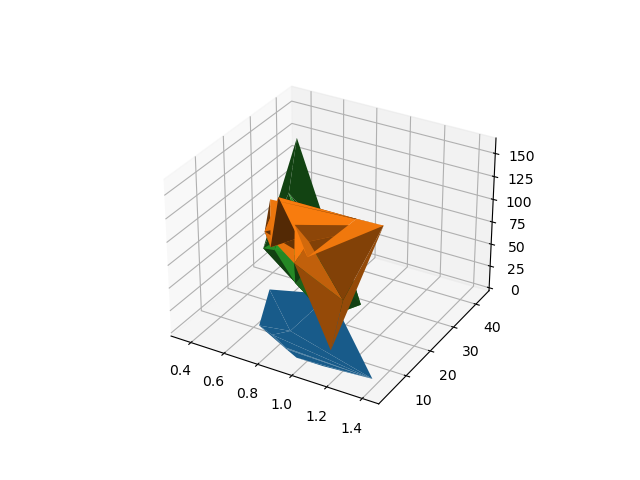
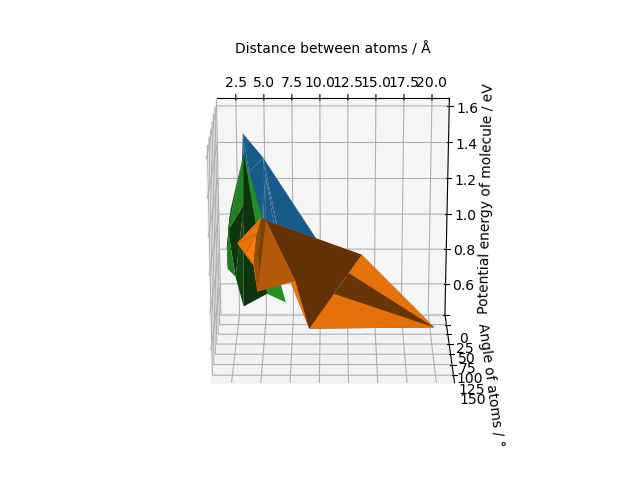
Improved PES plot. Need to add legend and display it.

diff --git a/Geopt/View/Analysis.py b/Geopt/View/Analysis.py
@@ -1,8 +1,6 @@
 from ase.io import write
 import tkinter
-from mpl_toolkits.mplot3d import Axes3D
 import matplotlib.pyplot as plt
-from matplotlib import cm
 import numpy as np
 from Controller.Analysis import *
 from View.Shared import SetUpWindow
@@ -23,22 +21,7 @@ def PositionPlot(allAtomPlaces, eMax):
     plt.savefig("Images/fig3.png")
 
 
-def PesPlot(pesData, refs):
-    colourMaps = [cm.Purples, cm.Oranges, cm.Greens, cm.Blues, cm.Greys, cm.Reds]
-    surfFig = plt.figure()
-    pax = surfFig.add_subplot(111, projection='3d')
-    for i in range(len(refs)):
-        group = refs[i]
-        grouped = np.where(pesData[:, 3] == group)
-        distances = pesData[grouped, 0].astype('float64')
-        energies = pesData[grouped, 1].astype('float64')
-        angles = pesData[grouped, 2].astype('float64')
-        pax.plot(distances[0], energies[0], angles[0], marker='x', linewidth=0)
-    plt.savefig("Images/testSurface2.png")
-
-
 def SurfacePlot(pesData, refs):
-    colourMaps = [cm.Purples, cm.Oranges, cm.Greens, cm.Blues, cm.Greys, cm.Reds]
     surfFig = plt.figure()
     pax = surfFig.gca(projection='3d')
     for i in range(len(refs)):
@@ -46,9 +29,13 @@ def SurfacePlot(pesData, refs):
         grouped = np.where(pesData[:, 3] == group)
         distances = pesData[grouped, 0].astype('float64')
         energies = pesData[grouped, 1].astype('float64')
-        x, y = np.meshgrid(distances[0], energies[0])
         angles = pesData[grouped, 2].astype('float64')
-        pax.plot_trisurf(distances[0], energies[0], angles[0])
+        pax.plot_trisurf(energies[0], distances[0], angles[0])
+
+    pax.view_init(110, -90)
+    pax.set_xlabel('Distance between atoms / \u00c5')
+    pax.set_ylabel('Potential energy of molecule / eV')
+    pax.set_zlabel('Angle of atoms / \u00b0')
     plt.savefig("Images/testSurface.png")
 
 
@@ -68,7 +55,6 @@ def StartAnalysis(elementsList):
     pesData = np.array(pesData)
     refData = refs[0]
     SurfacePlot(pesData, refData)
-    PesPlot(pesData, refData)
 
     for i in range(3):
         fileName = "Images/fig{num}.png".format(num=i)
